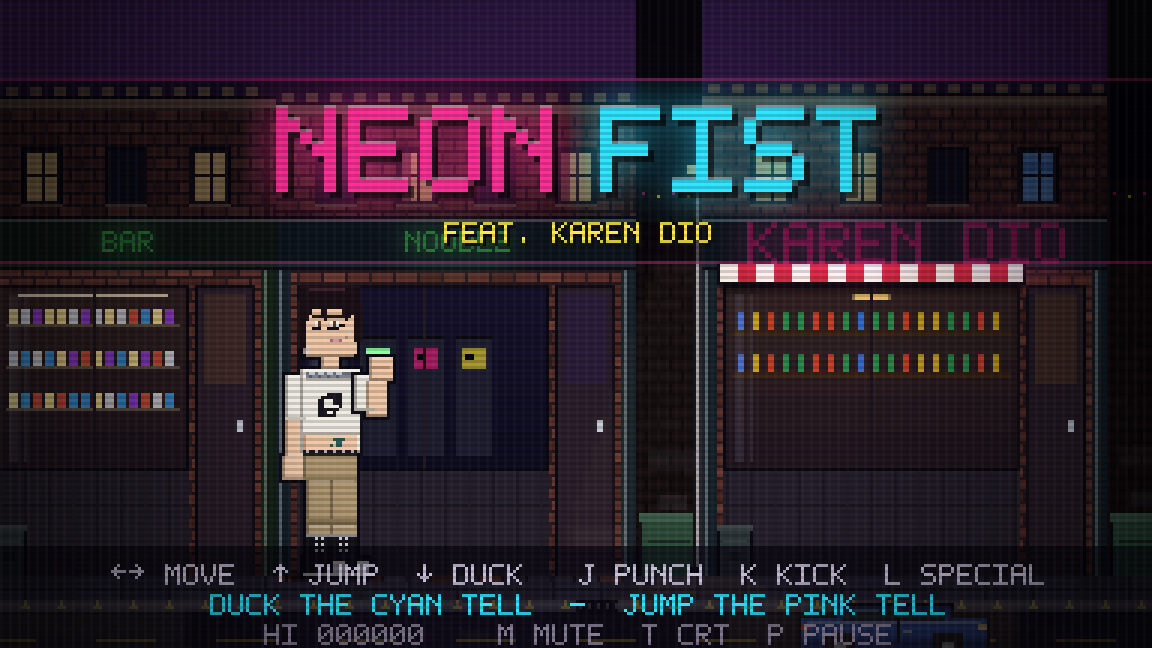
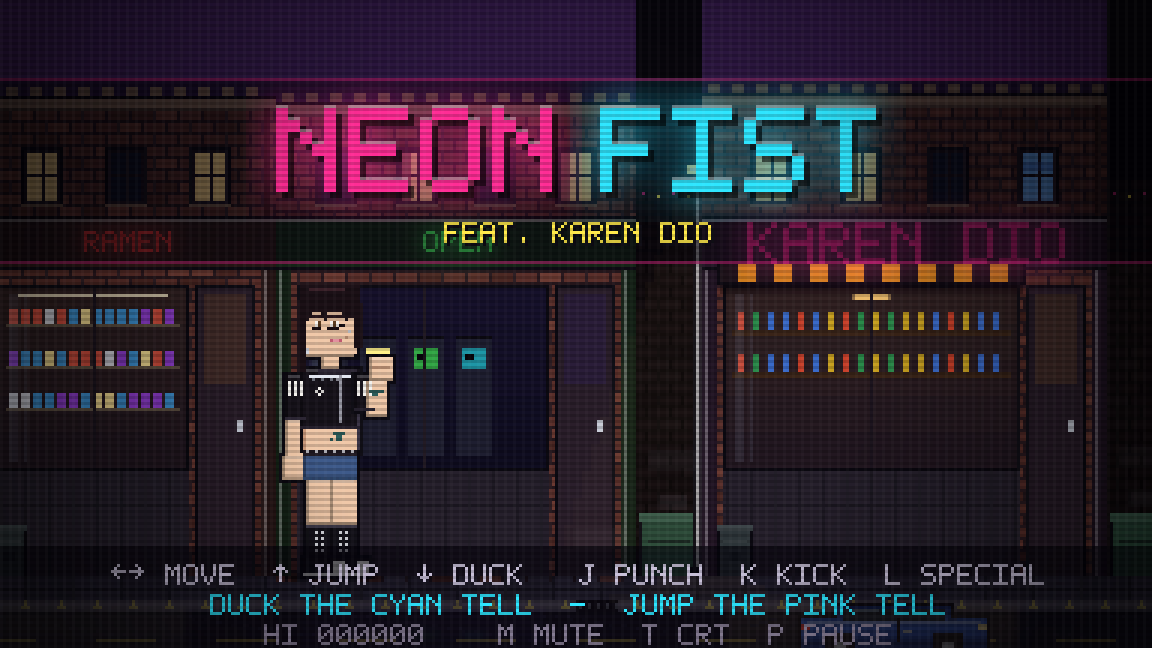
Dress Karen in the Adidas crop top, denim cut-offs and knee-high Converse, and give her a kiai
Kit, from the supplied reference photo:

- Black three-stripe zip crop top: stand collar, full-length front zip with a
  pull, a small chest logo mark, and three white stripes running down each
  sleeve from the shoulder seam. The stripes are placed by finding the
  shoulder end of the upper arm, so they stay on the sleeve whichever way the
  arm points.
- Denim cut-offs with the studded belt and a frayed hem, bare thighs.
- Knee-high Converse: the whole shin is boot again, with eyelet pairs up the
  shaft, a cuff highlight at the knee end and white toe caps and soles.
- Hair lengthened past the shoulder, fringe blunted.
- Sleeve tattoo hinted as one connected band on the forearm. Scattered dots
  read as dirt at this size.

Going back to a black top reintroduced the camouflage problem that turning it
white had solved, so readability is now carried inside the silhouette instead:
six white sleeve stripes, the denim band at the hips, a light skin mass across
midriff and thighs, white boot detail, and a 1px rim light down the front edge
of the torso. Checked against the busy shopfront background, not a flat one.

Kiai: every kick, sweep, jump kick and special now shouts "hee-ya". There are
no samples in this project, so voice() synthesises it from a sawtooth glottal
source through two swept bandpass formants, gliding /i/ (F1 300, F2 2300) to
/a/ (F1 760, F2 1180) at the syllable break. Envelope dips between syllables
[…]

diff --git a/neon-fist.html b/neon-fist.html
@@ -207,16 +207,18 @@ var PAL = {
 var HERO = {
   hair: '#1b1016', hairHi: '#43262f', skin: '#f0c8a8', skinSh: '#c99a7c',
   eyeW: '#f6f2ee', iris: '#5a3a1e', liner: '#150b10', brow: '#241318', lips: '#c05a70', lipHi: '#e2909e',
-  tee: '#f0ece4', teeSh: '#c6c0b4', print: '#1a1620',
-  tattoo: '#2b5c5a', trouser: '#b09872', trouserSh: '#87724f',
-  belt: '#201a22', stud: '#c8c8d0', shoe: '#14121a', shoeW: '#ecebe8', eyelet: '#cfd0d6',
-  chain: '#e2e6f0', chainMid: '#7a7e8a', chainSh: '#565a66', hoop: '#d0d4de'
+  // black three-stripe zip crop top: near-black needs an explicit rim and a
+  // lighter collar, or it merges with the shopfronts behind her
+  tee: '#16121a', teeHi: '#2c2634', teeRim: '#3c3648', stripe: '#f2f0ec', zip: '#9a9aa6',
+  tattoo: '#2b5c5a', denim: '#3e5a8a', denimSh: '#2c4468',
+  belt: '#201a22', stud: '#c8c8d0', shoe: '#14121a', shoeW: '#ecebe8', eyelet: '#cfd0d6', bootHi: '#3a3644',
+  chain: '#e2e6f0', chainSh: '#7a7e8a', hoop: '#d0d4de'
 };
 
 // Every fighter kit: base colours per body part + a name so the renderer can
 // pick the detail decorator.  fat widens the torso symmetrically (integer px).
 var KIT = {
-  hero:    { type: 'hero',    fat: 0, skin: HERO.skin, hair: HERO.hair, top: HERO.tee, hips: HERO.trouser, thigh: HERO.trouser, shin: HERO.trouser, foot: HERO.shoe, arm: HERO.skin, sleeve: HERO.tee },
+  hero:    { type: 'hero',    fat: 0, skin: HERO.skin, hair: HERO.hair, top: HERO.tee, hips: HERO.denim, thigh: HERO.skin, shin: HERO.shoe, foot: HERO.shoe, arm: HERO.skin, sleeve: HERO.tee },
   punk:    { type: 'punk',    fat: 0, skin: '#e0b898', hair: '#101014', top: '#1a1418', top2: '#c8202a', hips: '#2a2a36', thigh: '#2a2a36', shin: '#2a2a36', foot: '#141018', arm: '#1a1418', sleeve: '#1a1418' },
   bruiser: { type: 'bruiser', fat: 6, skin: '#d8a888', hair: '#d8a888', top: '#d8d0c0', top2: '#8a6a4a', hips: '#2c3a2a', thigh: '#2c3a2a', shin: '#2c3a2a', foot: '#4a3020', arm: '#d8a888', sleeve: '#d8d0c0' },
   knifer:  { type: 'knifer',  fat: 0, skin: '#c8a080', hair: '#4a4a56', top: '#4a4a56', top2: '#3a3a44', hips: '#2a3048', thigh: '#2a3048', shin: '#2a3048', foot: '#dcdcdc', arm: '#4a4a56', sleeve: '#4a4a56' },
@@ -537,69 +539,65 @@ function decorate(e, k, p, torso, P, face, ox, oy) {
 
   function heroDeco() {
     if (!flat) {
-      // hair: chin-length bob, wispy uneven fringe, pieces past the jaw
+      // hair: blunt fringe, length past the shoulder
       P(hx - 1, hy - 2, hw + 2, 7, HERO.hair);
       P(hx + 2, hy - 1, hw - 6, 1, HERO.hairHi);
-      P(hx - 2, hy + 3, 3, 16, HERO.hair);              // back piece past the jaw
-      P(hx + hw - 1, hy + 4, 3, 13, HERO.hair);         // front piece
-      // fringe strands: short over the eyes, long over brow and temples
-      var fr = [7, 6, 4, 2, 2, 2, 5, 6, 2, 2, 2, 2, 2, 5, 6, 5, 4, 7];
+      P(hx - 2, hy + 3, 3, 24, HERO.hair);              // back length, past the shoulder
+      P(hx - 1, hy + 20, 2, 6, HERO.hair);
+      P(hx + hw - 1, hy + 4, 3, 15, HERO.hair);         // front piece
+      var fr = [7, 6, 5, 3, 3, 3, 5, 6, 3, 3, 3, 3, 3, 5, 6, 5, 5, 7];
       for (var i = 0; i < hw; i++) P(hx + i, hy + 4, 1, fr[i], HERO.hair);
-      // strong brows, then eyes and winged liner
+      // brows, eyes, winged liner
       P(hx + 3, hy + 8, 3, 1, HERO.brow); P(hx + 8, hy + 8, 5, 1, HERO.brow);
       face2(hx + 4, hy + 10, HERO.iris, HERO.liner);
-      P(hx + 12, hy + 11, 2, 1, HERO.liner);            // flick of the wing
-      P(hx + 11, hy + 10, 1, 1, HERO.eyeW);             // catchlight
-      P(hx + hw - 3, hy + 13, 1, 1, HERO.hoop);         // nose stud
-      P(hx + hw - 4, hy + 15, 1, 1, HERO.skinSh);       // nose shadow
+      P(hx + 12, hy + 11, 2, 1, HERO.liner);
+      P(hx + 11, hy + 10, 1, 1, HERO.eyeW);
+      P(hx + hw - 3, hy + 13, 1, 1, HERO.hoop);
+      P(hx + hw - 4, hy + 15, 1, 1, HERO.skinSh);
       P(hx + 9, hy + 16, 4, 1, HERO.lips); P(hx + 10, hy + 16, 2, 1, HERO.lipHi);
       P(hx + 1, hy + hh - 3, 1, 2, HERO.hoop);          // jaw hoop
-      // face-framing strands last, so they fall over the cheek
-      P(hx, hy + 5, 1, 13, HERO.hair); P(hx + hw - 1, hy + 5, 1, 12, HERO.hair);
-      // chunky curb chain at the collarbone (needs dark links to read on white)
-      var cy = ty + 1;
-      P(tx + 2, cy, tw - 4, 2, HERO.chainMid);
-      for (var ci = 3; ci < tw - 5; ci += 3) { P(tx + ci, cy, 2, 1, HERO.chain); P(tx + ci, cy + 1, 1, 1, HERO.chainSh); }
-      P(tx + 2, cy + 2, tw - 4, 1, HERO.teeSh);
-      // graphic print on the white tee
-      P(tx + 6, ty + 8, 8, 8, HERO.print);
-      P(tx + 6, ty + 8, 3, 1, HERO.tee); P(tx + 6, ty + 9, 1, 1, HERO.tee);
-      P(tx + 12, ty + 14, 2, 2, HERO.tee); P(tx + 13, ty + 13, 1, 1, HERO.tee);
-      P(tx + 8, ty + 10, 3, 3, HERO.tee); P(tx + 10, ty + 12, 3, 1, HERO.tee); P(tx + 9, ty + 14, 2, 1, HERO.tee);
+      P(hx, hy + 5, 1, 14, HERO.hair); P(hx + hw - 1, hy + 5, 1, 13, HERO.hair);
+      // rim light down the front edge so a black top separates from the street
+      P(tx + tw - 1, ty + 1, 1, th - 2, HERO.teeRim);
+      // stand collar, then the chunky chain over it
+      P(tx + 6, ty, tw - 7, 2, HERO.teeHi);
+      P(tx + 3, ty + 2, tw - 6, 1, HERO.chain);
+      for (var ci = 4; ci < tw - 4; ci += 3) P(tx + ci, ty + 3, 1, 1, HERO.chainSh);
+      // full-length front zip with a pull
+      P(tx + 13, ty + 2, 1, 16, HERO.zip);
+      P(tx + 12, ty + 3, 2, 1, HERO.zip);
+      // small chest logo mark
+      P(tx + 5, ty + 7, 1, 1, HERO.stripe); P(tx + 7, ty + 7, 1, 1, HERO.stripe);
+      P(tx + 6, ty + 8, 1, 1, HERO.stripe); P(tx + 6, ty + 6, 1, 1, HERO.stripe);
       // cropped hem, then the bare tattooed midriff with an inset waist
-      var mh = Math.max(4, th - 22);
-      P(tx, ty + th - mh - 1, tw, 1, HERO.teeSh);
+      var mh = Math.max(5, th - 20);
+      P(tx, ty + th - mh - 1, tw, 1, HERO.teeHi);
       P(tx + 1, ty + th - mh, tw - 2, mh, HERO.skin);
       P(tx + 1, ty + th - mh, 1, mh, HERO.skinSh); P(tx + 1, ty + th - 1, tw - 2, 1, HERO.skinSh);
       P(tx + 11, ty + th - mh + 1, 4, 1, HERO.tattoo); P(tx + 12, ty + th - mh + 2, 2, 2, HERO.tattoo); P(tx + 10, ty + th - mh + 3, 1, 1, HERO.tattoo);
     }
-    // studded belt over the trousers
+    // studded belt and the frayed hem of the denim cut-offs
     P(hp[0], hp[1], hp[2], 2, HERO.belt);
     for (var sd = 1; sd < hp[2]; sd += 3) P(hp[0] + sd, hp[1], 1, 1, HERO.stud);
-    P(hp[0], hp[1] + hp[3] - 1, hp[2], 1, HERO.trouserSh);
-    // trouser cuff at the boot, converse eyelets and white toe caps
+    for (var fy = 0; fy < hp[2]; fy += 2) P(hp[0] + fy, hp[1] + hp[3] - 1, 1, 1, HERO.denimSh);
+    // knee-high converse: the whole shin is boot, so it needs internal detail
+    // or a raised leg reads as a black bar
     legDeco(p.legB, p.footB); legDeco(p.legF, p.footF);
     function legDeco(l, foot) {
       if (!l) return;
-      var thg = l[0], sh = l[1], ft = foot || l[2];
-      if (thg[3] >= thg[2]) P(thg[0], thg[1] + thg[3] - 2, thg[2], 1, HERO.trouserSh);
-      else P(thg[0] + thg[2] - 1, thg[1], 1, thg[3], HERO.trouserSh);
-      // Converse shaft over the ANKLE end of the shin - the end nearest the
-      // foot rect, which is the top of the shin on a high kick and the bottom
-      // everywhere else.  Same shoulder-end problem as the sleeves.
-      var vert = sh[3] >= sh[2];
-      var shaft = Math.max(4, Math.min(9, (vert ? sh[3] : sh[2]) - 3));
-      var bx = sh[0], by = sh[1], bw = sh[2], bh = sh[3];
-      if (vert) { by = (ft && (ft[1] + ft[3] / 2) < (sh[1] + sh[3] / 2)) ? sh[1] : sh[1] + sh[3] - shaft; bh = shaft; }
-      else { bx = (ft && (ft[0] + ft[2] / 2) > (sh[0] + sh[2] / 2)) ? sh[0] + sh[2] - shaft : sh[0]; bw = shaft; }
-      P(bx, by, bw, bh, HERO.shoe);
-      P(bx, by, bw, 1, shade(HERO.shoe, 1.6));
-      var i2;
-      if (vert) { for (i2 = 1; i2 < bh - 1; i2 += 2) { P(bx + 3, by + i2, 1, 1, HERO.eyelet); P(bx + 5, by + i2, 1, 1, HERO.eyelet); } }
-      else { for (i2 = 1; i2 < bw - 1; i2 += 2) { P(bx + i2, by + 2, 1, 1, HERO.eyelet); P(bx + i2, by + 4, 1, 1, HERO.eyelet); } }
+      var sh = l[1], ft = foot || l[2], i2;
+      if (sh[3] >= sh[2]) {
+        var kneeTop = !(ft && (ft[1] + ft[3] / 2) < (sh[1] + sh[3] / 2));
+        P(sh[0], kneeTop ? sh[1] : sh[1] + sh[3] - 1, sh[2], 1, HERO.bootHi);
+        for (i2 = 2; i2 < sh[3] - 1; i2 += 2) { P(sh[0] + 3, sh[1] + i2, 1, 1, HERO.eyelet); P(sh[0] + 5, sh[1] + i2, 1, 1, HERO.eyelet); }
+      } else {
+        var kneeRight = !(ft && (ft[0] + ft[2] / 2) > (sh[0] + sh[2] / 2));
+        P(kneeRight ? sh[0] + sh[2] - 1 : sh[0], sh[1], 1, sh[3], HERO.bootHi);
+        for (i2 = 2; i2 < sh[2] - 1; i2 += 2) { P(sh[0] + i2, sh[1] + 2, 1, 1, HERO.eyelet); P(sh[0] + i2, sh[1] + 4, 1, 1, HERO.eyelet); }
+      }
       if (!ft) return;
       if (ft[2] >= ft[3]) { P(ft[0] + ft[2] - 4, ft[1] + 1, 4, ft[3] - 2, HERO.shoeW); P(ft[0], ft[1] + ft[3] - 1, ft[2], 1, HERO.shoeW); }
-      else { P(ft[0] + 1, ft[1], ft[2] - 3, 3, HERO.shoeW); P(ft[0] + ft[2] - 2, ft[1] + 1, 2, ft[3] - 1, HERO.shoeW); }
+      else { P(ft[0] + 2, ft[1], ft[2] - 4, 2, HERO.shoeW); P(ft[0] + ft[2] - 2, ft[1] + 2, 2, ft[3] - 2, HERO.shoeW); }
     }
   }
 
@@ -678,15 +676,28 @@ function decorateArm(e, k, p, P, face) {
   var up = a[0], fi = a[2];
   // a horizontal upper arm has its shoulder at the end nearest the spine, so
   // the cuff belongs on the far end whichever way the arm points
-  function cuff(u) {
+  // three stripes run down the sleeve FROM THE SHOULDER, so the shoulder end
+  // has to be found: it is the end of the upper arm nearest the spine
+  function sleeve(u) {
     if (!u) return;
-    if (u[3] >= u[2]) P(u[0], u[1] + u[3] - 1, u[2], 1, HERO.teeSh);
-    else P(Math.abs(u[0]) > Math.abs(u[0] + u[2]) ? u[0] : u[0] + u[2] - 1, u[1], 1, u[3], HERO.teeSh);
+    var i;
+    if (u[3] >= u[2]) {                       // arm hanging: stripes vertical
+      for (i = 0; i < 3; i++) P(u[0] + 1 + i * 2, u[1] + 2, 1, Math.min(5, u[3] - 3), HERO.stripe);
+      P(u[0], u[1] + u[3] - 1, u[2], 1, HERO.teeHi);
+    } else {                                  // arm out: stripes stacked, at the shoulder
+      var sx = Math.abs(u[0]) < Math.abs(u[0] + u[2]) ? u[0] + 1 : u[0] + u[2] - 7;
+      for (i = 0; i < 3; i++) P(sx, u[1] + 1 + i * 2, Math.min(5, u[2] - 3), 1, HERO.stripe);
+      P(Math.abs(u[0]) > Math.abs(u[0] + u[2]) ? u[0] : u[0] + u[2] - 1, u[1], 1, u[3], HERO.teeHi);
+    }
   }
   if (k.type === 'hero') {
-    // short white sleeve: shade the cuff at the elbow end, never the shoulder
-    cuff(a[0]); cuff(p.armB && p.armB[0]);
+    sleeve(a[0]); sleeve(p.armB && p.armB[0]);
     P(fi[0] + 1, fi[1] + 3, fi[2] - 2, 1, HERO.skinSh);   // knuckle line
+    // sleeve tattoo: one connected band, never scattered dots - at this size
+    // loose specks on skin read as dirt, not ink
+    var fo = a[1];
+    if (fo[3] >= fo[2]) { P(fo[0] + 1, fo[1] + 3, fo[2] - 2, 1, HERO.tattoo); P(fo[0] + 2, fo[1] + 4, 2, 1, HERO.tattoo); }
+    else { P(fo[0] + 2, fo[1] + 1, 1, fo[3] - 2, HERO.tattoo); P(fo[0] + 3, fo[1] + 2, 1, 2, HERO.tattoo); }
   } else if (k.type === 'bruiser') {
     P(fi[0] + 1, fi[1] + 2, 1, 1, '#2a4a8a'); P(fi[0] + 3, fi[1] + 2, 1, 1, '#2a4a8a'); P(fi[0] + 5, fi[1] + 2, 1, 1, '#2a4a8a');
   } else if (k.type === 'knifer' && (e.pose === 'throwup' || e.pose === 'throw' || e.pose === 'idle' || (e.pose && e.pose.indexOf('walk') === 0))) {
@@ -1360,7 +1371,67 @@ function noise(dur, vol, when, hp) {
   s.connect(f); f.connect(g); g.connect(master);
   s.start(t0); s.stop(t0 + dur + 0.02);
 }
+// "HEE-YA" - a two-syllable kiai. There are no samples in this project, so it
+// is a sawtooth glottal source pushed through two swept bandpass formants:
+// /i/ as in "hee" sits at F1 300 / F2 2300, /a/ as in "ya" at F1 760 / F2 1180.
+// Gliding the pair at the syllable break is what makes it read as a voice
+// rather than a beep. Pitch and formants are jittered per call so repeated
+// kicks do not sound like a stuck tape.
+function voice(when, big) {
+  if (!AC) return;
+  var t0 = when || AC.currentTime;
+  var v = (0.94 + Math.random() * 0.14) * (big ? 0.86 : 1);
+  var dur = big ? 0.54 : 0.40;
+  var brk = dur * 0.46;                       // where "hee" becomes "ya"
+  var f = 430 * v;
+
+  var osc = AC.createOscillator();
+  osc.type = 'sawtooth';
+  osc.frequency.setValueAtTime(f, t0);
+  osc.frequency.linearRampToValueAtTime(f * 1.22, t0 + brk * 0.7);
+  osc.frequency.setValueAtTime(f * 1.22, t0 + brk);
+  osc.frequency.linearRampToValueAtTime(f * 0.78, t0 + brk + 0.05);
+  osc.frequency.exponentialRampToValueAtTime(f * 0.5, t0 + dur);
+
+  var f1 = AC.createBiquadFilter(), f2 = AC.createBiquadFilter();
+  f1.type = 'bandpass'; f2.type = 'bandpass';
+  f1.Q.value = 9; f2.Q.value = 12;
+  f1.frequency.setValueAtTime(300 * v, t0);
+  f1.frequency.setValueAtTime(300 * v, t0 + brk);
+  f1.frequency.linearRampToValueAtTime(760 * v, t0 + brk + 0.06);
+  f2.frequency.setValueAtTime(2300 * v, t0);
+  f2.frequency.setValueAtTime(2300 * v, t0 + brk);
+  f2.frequency.linearRampToValueAtTime(1180 * v, t0 + brk + 0.06);
+
+  // bandpass at Q 9-12 throws away most of the source energy, so the formant
+  // gains are well above 1 to land level with the other effects
+  var g1 = AC.createGain(); g1.gain.value = 2.4;
+  var g2 = AC.createGain(); g2.gain.value = 1.7;
+  var env = AC.createGain();
+  var pk = big ? 0.40 : 0.30;
+  env.gain.setValueAtTime(0.0001, t0);
+  env.gain.exponentialRampToValueAtTime(pk, t0 + 0.02);
+  env.gain.setValueAtTime(pk, t0 + brk * 0.75);
+  env.gain.exponentialRampToValueAtTime(pk * 0.28, t0 + brk);          // dip between syllables
+  env.gain.exponentialRampToValueAtTime(pk * 1.15, t0 + brk + 0.05);   // the YA accent
+  env.gain.exponentialRampToValueAtTime(0.0008, t0 + dur);
+
+  osc.connect(f1); osc.connect(f2);
+  f1.connect(g1); f2.connect(g2);
+  g1.connect(env); g2.connect(env);
+  env.connect(master);
+  osc.start(t0); osc.stop(t0 + dur + 0.03);
+  noise(0.05, 0.05, t0 + brk - 0.01, 1600);   // breath on the consonant
+}
+var voiceT = 0;
+
 var SFX = {
+  // rate limited: without this a mashed kick stacks a dozen overlapping shouts
+  kiai: function (big) {
+    if (!AC || G.t < voiceT) return;
+    voiceT = G.t + (big ? 0.70 : 0.42);
+    voice(null, big);
+  },
   swing: function () { noise(0.08, 0.12, 0, 2400); },
   punch: function () { noise(0.07, 0.35); tone(160, 'square', 0.08, 0.25, 0.5); },
   kick: function () { noise(0.12, 0.4); tone(110, 'square', 0.12, 0.3, 0.4); },
@@ -1480,11 +1551,11 @@ function pollGamepad() {
 // ============================================================================
 var ATK = {
   punch:    { reach: 52, from: 14, dmg: 1, dur: 0.24, active: [0.05, 0.16], high: true,  kb: 80,  wind: 'punchup', pose: 'punch',   sfx: 'punch' },
-  kick:     { reach: 62, from: 18, dmg: 2, dur: 0.36, active: [0.10, 0.26], high: true,  kb: 160, wind: 'kickup',  pose: 'kick',    sfx: 'kick', ghost: true },
-  sweep:    { reach: 54, from: 14, dmg: 2, dur: 0.36, active: [0.09, 0.26], high: false, kb: 140, wind: 'crouch',  pose: 'sweep',   sfx: 'kick' },
+  kick:     { reach: 62, from: 18, dmg: 2, dur: 0.36, active: [0.10, 0.26], high: true,  kb: 160, wind: 'kickup',  pose: 'kick',    sfx: 'kick', ghost: true, kiai: true },
+  sweep:    { reach: 54, from: 14, dmg: 2, dur: 0.36, active: [0.09, 0.26], high: false, kb: 140, wind: 'crouch',  pose: 'sweep',   sfx: 'kick', kiai: true },
   lowpunch: { reach: 46, from: 12, dmg: 1, dur: 0.22, active: [0.04, 0.14], high: false, kb: 70,  wind: 'crouch',  pose: 'lowpunch', sfx: 'punch' },
-  jumpkick: { reach: 56, from: 14, dmg: 3, dur: 0.5,  active: [0.02, 0.5],  high: true,  kb: 200, wind: 'jumpkick', pose: 'jumpkick', sfx: 'kick', ghost: true },
-  uppercut: { reach: 60, from: -10, dmg: 4, dur: 0.6, active: [0.02, 0.4], high: true,  kb: 260, wind: 'uppercut', pose: 'uppercut', sfx: 'heavy', ghost: true, all: true }
+  jumpkick: { reach: 56, from: 14, dmg: 3, dur: 0.5,  active: [0.02, 0.5],  high: true,  kb: 200, wind: 'jumpkick', pose: 'jumpkick', sfx: 'kick', ghost: true, kiai: true },
+  uppercut: { reach: 60, from: -10, dmg: 4, dur: 0.6, active: [0.02, 0.4], high: true,  kb: 260, wind: 'uppercut', pose: 'uppercut', sfx: 'heavy', ghost: true, all: true, kiai: true }
 };
 var ENEMY_ATK = {
   punkHigh:    { reach: 46, from: 12, wind: 0.40, active: [0, 0.12], dur: 0.30, high: true,  windPose: 'punchup', pose: 'punch', sfx: 'punch' },
@@ -1570,6 +1641,7 @@ function startAttack(p, name) {
   var a = ATK[name];
   p.state = name; p.atk = a; p.pose = a.wind; p.st = 0; p.hitSet = {}; p.ghostT = 0;
   SFX.swing();
+  if (a.kiai) SFX.kiai(name === 'uppercut');
 }
 
 function applyPlayerAttack(p, dt) {
@@ -2232,6 +2304,23 @@ window.__NF = {
   key: function (code, down) { audioInit(); onKey(code, down); },
   startStage: function (n) { G.stage = n || 1; G.demo = false; startStage(); },
   spawn: function (type, x) { var e = makeEnemy(type, x); enemies.push(e); return e; },
+  // Renders the kiai through an OfflineAudioContext so the harness can prove it
+  // is not silent and that the formants really glide from "ee" to "ya".  Swaps
+  // the module's AC/master/noiseBuf for offline ones, then puts them back.
+  renderVoice: function (big) {
+    var OAC = window.OfflineAudioContext || window.webkitOfflineAudioContext;
+    if (!OAC) return null;
+    var oc = new OAC(1, 44100, 44100);
+    var sAC = AC, sMaster = master, sNoise = noiseBuf;
+    AC = oc;
+    master = oc.createGain(); master.gain.value = 1; master.connect(oc.destination);
+    noiseBuf = oc.createBuffer(1, oc.sampleRate * 0.5, oc.sampleRate);
+    var d = noiseBuf.getChannelData(0), i;
+    for (i = 0; i < d.length; i++) d[i] = Math.random() * 2 - 1;
+    voice(0, big);
+    AC = sAC; master = sMaster; noiseBuf = sNoise;
+    return oc.startRendering();
+  },
   ai: function (dt) { demoThink(dt || 0.0167); },
   render: render
 };

diff --git a/HANDOFF.md b/HANDOFF.md
@@ -56,7 +56,7 @@ comments in this order (search for the banner name rather than a line number):
 | BACKGROUND | `THEMES`, `buildScene`, `brickWall`, `makeSign`, `drawCar`, `drawBackground`, `drawWeather` |
 | GAME STATE | `G`, `cam`, `newPlayer`, `makeEnemy`, `startStage`, `resetGame`, high score |
 | EFFECTS | `spawnSparks`, `spawnDust`, `spawnCoins`, `spawnWord`, `updateFx`, `drawFx` |
-| AUDIO | `audioInit`, `tone`, `noise`, `SFX`, `musicSet`, `musicTick` |
+| AUDIO | `audioInit`, `tone`, `noise`, `voice` (the kiai), `SFX`, `musicSet`, `musicTick` |
 | INPUT | `KEYMAP`, `press`/`take` (150 ms input buffer), gamepad polling, touch pad wiring |
 | COMBAT HELPERS | `ATK`, `ENEMY_ATK`, `inReach`, `evades`, tokens, `hurtEnemy`, `hurtPlayer` |
 | UPDATE | `updatePlayer`, `updateEnemy`, `pickAttack`, `spawnWave`, `updateKnives`, `updateCamera`, `updateWorld` |
@@ -251,6 +251,20 @@ on clear, difficulty scales off `lvl()` = `stage − 1` (enemy speed +8 %/level,
 floored at 60 %, enemy cap 3 → 4 at level 3). Losing a life clears the street and refills the
 timer; the boss steps back but keeps his damage.
 
+**The kiai.** Every kick, sweep, jump kick and special throws a **"hee-ya"**. There are no
+samples in this project, so `voice()` synthesises it: a sawtooth glottal source pushed through
+two swept bandpass formants. /i/ as in "hee" sits at F1 300 / F2 2300, /a/ as in "ya" at
+F1 760 / F2 1180, and gliding the pair at the syllable break is what makes it read as a voice
+rather than a beep. The envelope dips between syllables and peaks higher on the "ya". Pitch and
+formants are jittered per call, and `SFX.kiai` rate-limits to one shout per 0.42 s so a mashed
+kick does not stack a dozen of them. The special shouts lower and longer.
+
+Because the bandpass filters at Q 9-12 throw away most of the source energy, the formant gains
+sit well above 1. Verify a change with `__NF.renderVoice()`, which renders it through an
+`OfflineAudioContext` and hands back the buffer: peak RMS should land near 0.11 with max
+|sample| under 0.4, and the zero-crossing rate must **fall** across the syllable break, which is
+the cheap proof that the formants really glide.
+
 **Music:** `musicTick` is a 16-step sequencer scheduled 120 ms ahead on `AC.currentTime`.
 Drums are fixed; the bass follows one of three progressions by mode (`a` street, `b` rain,
 `boss`, `title`); the lead is a seeded random walk on a minor scale, so every stage has its own
@@ -299,19 +313,34 @@ joints, a sheet row height that swallows the sprite below it.
 Source was a 15 s 1080×1920 clip plus two *Kung-Fu Master* screenshots and a photo of the
 person the lead is based on.
 
-**Karen** — art-directed from two photo references (a portrait and a high-kick shot),
-which supersede the earlier clip-only description. Dark chin-length bob with a **wispy, uneven,
-piecey fringe** — short over the eyes so the brows stay visible, longer over the temples, with
-two strands falling past the cheek. **Strong dark brows** and **winged liner** are the two
-features that carry the likeness at this size; brown irises in visible white with a catchlight,
-nose stud, jaw hoop. Glossy lip with a highlight pixel. One **chunky curb chain** at the
-collarbone (dark links with light centres, so it reads against white). **White cropped tee**
-with a dark graphic print and short sleeves, bare tattooed midriff with an inset waist,
-**khaki/tan trousers** with a studded belt, **black Converse high-tops** with white toe caps and
-sole edges — the boot is a shaft painted over the ankle end of the shin, not the whole shin.
+**Karen** — art-directed from three photo references, which supersede the earlier clip-only
+description. Dark hair with a **fringe kept short over the eyes** so the brows stay visible, and
+length falling past the shoulder. **Strong dark brows** and **winged liner** are the two features
+that carry the likeness at this size; brown irises in visible white with a catchlight, nose stud,
+jaw hoop, glossy lip with a highlight pixel. One **chunky curb chain** at the collarbone.
 
-The white top is also a gameplay decision: against a dark street a black tee made her
-disappear into the shopfronts, and she now reads instantly at 1×.
+Kit, exactly as referenced: a **black three-stripe zip crop top** — stand collar, full-length
+front zip with a pull, a small chest logo mark, and three white stripes running down each sleeve
+from the shoulder seam. Then a **bare tattooed midriff** with an inset waist, **denim cut-offs**
+with a studded belt and a frayed hem, bare thighs, and **knee-high black Converse** where the
+whole shin is boot, with eyelet pairs up the shaft and white toe caps and soles.
+
+Two things about that kit are load-bearing, not decoration:
+
+- **The stripes and the denim are what make her readable.** A black top on a dark street is a
+  camouflage problem. An earlier build solved it by turning the top white, which read instantly
+  but was wrong. The correct fix is contrast *within* the silhouette: six white sleeve stripes, a
+  blue denim band at the hips, a light skin mass across midriff and thighs, and white boot
+  detail, plus a 1 px rim light down the front edge of the torso. Judge any change to her
+  palette against `shots/play-05-combat@3x.png`, never against a flat backdrop.
+- **The boot covers the entire shin.** On a raised leg that is a long black bar, so it needs
+  internal detail or the high kick reads as a plank. The eyelet pairs and the knee-end cuff
+  highlight exist for that reason. The cuff end is found from the foot rect, so it lands at the
+  knee whichever way the leg points.
+
+Sleeve tattoos are hinted as **one connected band on the forearm, never scattered dots** — at
+this size loose specks on skin read as dirt, which is the same trap the art-direction rule at
+the end of this document describes.
 
 **The kick** is the character pose. It is a **high kick with the foot above the crown**, the leg
 staggered forward across three segments so it reads as a diagonal rather than a vertical bar,
